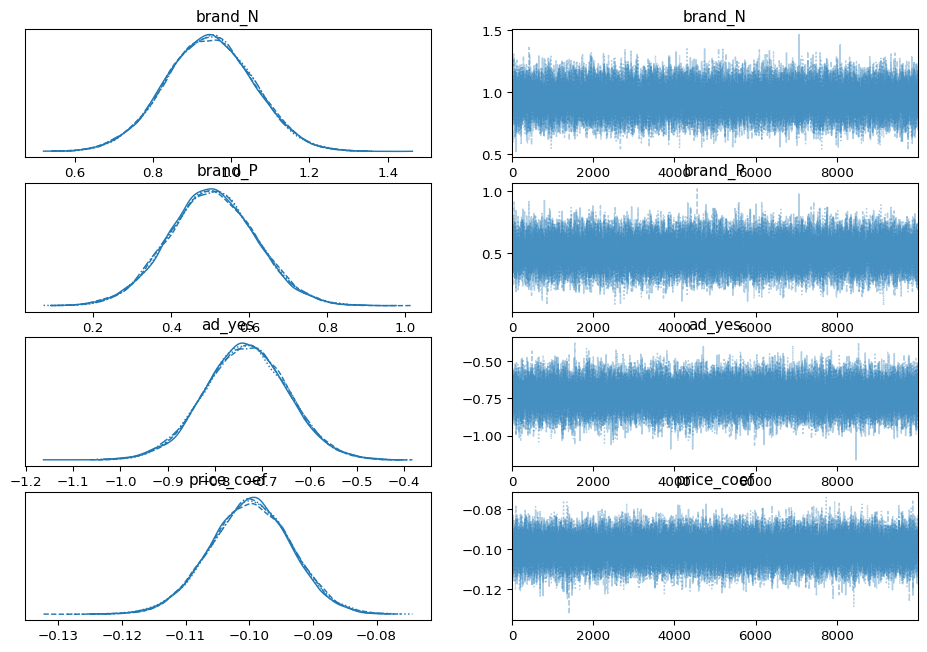
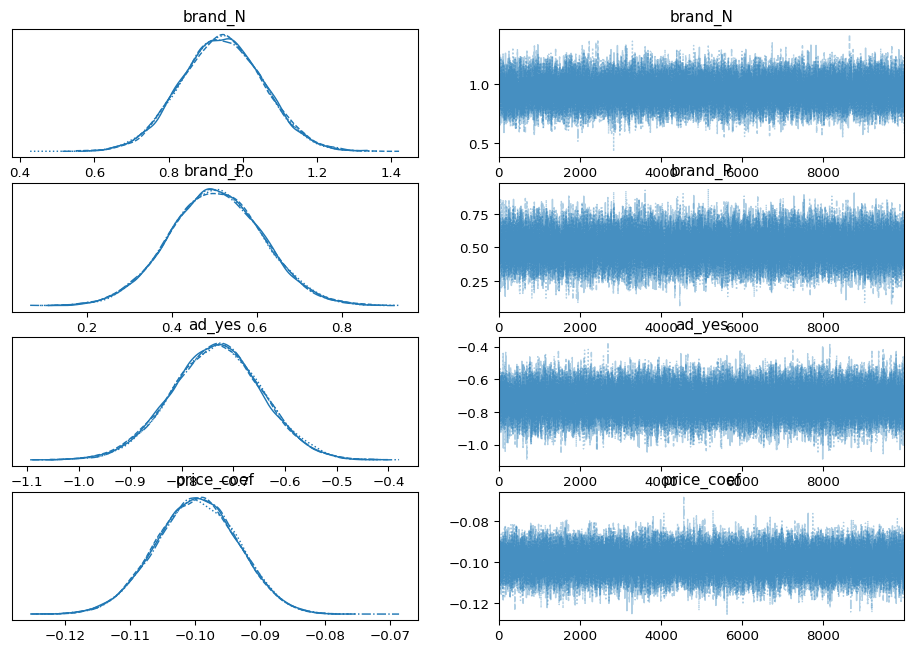
HW3

diff --git a/docs/blog/HW3/index.html b/docs/blog/HW3/index.html
@@ -192,7 +192,7 @@ window.Quarto = {
   <li><a href="#estimation-via-maximum-likelihood" id="toc-estimation-via-maximum-likelihood" class="nav-link" data-scroll-target="#estimation-via-maximum-likelihood">4. Estimation via Maximum Likelihood</a></li>
   <li><a href="#estimation-via-bayesian-methods" id="toc-estimation-via-bayesian-methods" class="nav-link" data-scroll-target="#estimation-via-bayesian-methods">5. Estimation via Bayesian Methods</a></li>
   <li><a href="#discussion" id="toc-discussion" class="nav-link" data-scroll-target="#discussion">6. Discussion</a></li>
-  <li><a href="#full-code" id="toc-full-code" class="nav-link" data-scroll-target="#full-code">Full Code</a></li>
+  <li><a href="#full-code" id="toc-full-code" class="nav-link" data-scroll-target="#full-code">7. Full Code</a></li>
   </ul>
 </nav>
     </div>
@@ -260,7 +260,7 @@ u_{ij} = (1 \times Netflix_j) + (0.5 \times Prime_j) + (-0.8*Ads_j) - 0.1\times 
 \]</span></p>
 <p>where the variables are binary indicators and <span class="math inline">\(\varepsilon\)</span> is Type 1 Extreme Value (ie, Gumble) distributed.</p>
 <p>The following code imports the previously–simulated conjoint data.</p>
-<div id="326143c2" class="cell" data-execution_count="1">
+<div id="73335380" class="cell" data-execution_count="1">
 <details class="code-fold">
 <summary>Show/Hide Code</summary>
 <div class="sourceCode cell-code" id="cb1"><pre class="sourceCode python code-with-copy"><code class="sourceCode python"><span id="cb1-1"><a href="#cb1-1" aria-hidden="true" tabindex="-1"></a><span class="im">import</span> pandas <span class="im">as</span> pd</span>
@@ -341,7 +341,7 @@ u_{ij} = (1 \times Netflix_j) + (0.5 \times Prime_j) + (-0.8*Ads_j) - 0.1\times 
 <section id="preparing-the-data-for-estimation" class="level2">
 <h2 class="anchored" data-anchor-id="preparing-the-data-for-estimation">3. Preparing the Data for Estimation</h2>
 <p>The “hard part” of the MNL likelihood function is organizing the data, as we need to keep track of 3 dimensions (consumer <span class="math inline">\(i\)</span>, covariate <span class="math inline">\(k\)</span>, and product <span class="math inline">\(j\)</span>) instead of the typical 2 dimensions for cross-sectional regression models (consumer <span class="math inline">\(i\)</span> and covariate <span class="math inline">\(k\)</span>). The fact that each task for each respondent has the same number of alternatives (3) helps. In addition, we need to convert the categorical variables for brand and ads into binary variables.</p>
-<div id="5ac3e5df" class="cell" data-execution_count="2">
+<div id="57777492" class="cell" data-execution_count="2">
 <details class="code-fold">
 <summary>Show/Hide Code</summary>
 <div class="sourceCode cell-code" id="cb2"><pre class="sourceCode python code-with-copy"><code class="sourceCode python"><span id="cb2-1"><a href="#cb2-1" aria-hidden="true" tabindex="-1"></a><span class="co"># Data preparation for MNL</span></span>
@@ -374,7 +374,7 @@ Number of unique choice tasks: 1000</code></pre>
 </section>
 <section id="estimation-via-maximum-likelihood" class="level2">
 <h2 class="anchored" data-anchor-id="estimation-via-maximum-likelihood">4. Estimation via Maximum Likelihood</h2>
-<div id="8ec84a3c" class="cell" data-execution_count="3">
+<div id="9cd07a77" class="cell" data-execution_count="3">
 <details class="code-fold">
 <summary>Show/Hide Code</summary>
 <div class="sourceCode cell-code" id="cb4"><pre class="sourceCode python code-with-copy"><code class="sourceCode python"><span id="cb4-1"><a href="#cb4-1" aria-hidden="true" tabindex="-1"></a><span class="co"># Maximum Likelihood Estimation</span></span>
@@ -467,7 +467,7 @@ Number of unique choice tasks: 1000</code></pre>
 </section>
 <section id="estimation-via-bayesian-methods" class="level2">
 <h2 class="anchored" data-anchor-id="estimation-via-bayesian-methods">5. Estimation via Bayesian Methods</h2>
-<div id="4a842b8d" class="cell" data-execution_count="4">
+<div id="0431a699" class="cell" data-execution_count="4">
 <details class="code-fold">
 <summary>Show/Hide Code</summary>
 <div class="sourceCode cell-code" id="cb5"><pre class="sourceCode python code-with-copy"><code class="sourceCode python"><span id="cb5-1"><a href="#cb5-1" aria-hidden="true" tabindex="-1"></a><span class="co"># Bayesian Estimation via MCMC</span></span>
@@ -531,37 +531,37 @@ Sampling 4 chains for 1_000 tune and 10_000 draw iterations (4_000 + 40_000 draw
 <tr class="odd">
 <td data-quarto-table-cell-role="th">brand_N</td>
 <td>0.944</td>
-<td>0.112</td>
-<td>0.735</td>
-<td>1.157</td>
+<td>0.111</td>
+<td>0.738</td>
+<td>1.154</td>
 <td>0.001</td>
 <td>0.001</td>
-<td>29861.0</td>
-<td>29176.0</td>
+<td>33283.0</td>
+<td>30265.0</td>
 <td>1.0</td>
 </tr>
 <tr class="even">
 <td data-quarto-table-cell-role="th">brand_P</td>
-<td>0.504</td>
-<td>0.112</td>
-<td>0.284</td>
-<td>0.705</td>
+<td>0.503</td>
+<td>0.110</td>
+<td>0.292</td>
+<td>0.707</td>
 <td>0.001</td>
 <td>0.001</td>
-<td>29405.0</td>
-<td>29196.0</td>
+<td>33570.0</td>
+<td>29456.0</td>
 <td>1.0</td>
 </tr>
 <tr class="odd">
 <td data-quarto-table-cell-role="th">ad_yes</td>
-<td>-0.735</td>
-<td>0.087</td>
-<td>-0.899</td>
-<td>-0.570</td>
+<td>-0.733</td>
+<td>0.088</td>
+<td>-0.900</td>
+<td>-0.569</td>
 <td>0.000</td>
 <td>0.000</td>
-<td>34570.0</td>
-<td>28862.0</td>
+<td>36591.0</td>
+<td>28974.0</td>
 <td>1.0</td>
 </tr>
 <tr class="even">
@@ -572,8 +572,8 @@ Sampling 4 chains for 1_000 tune and 10_000 draw iterations (4_000 + 40_000 draw
 <td>-0.088</td>
 <td>0.000</td>
 <td>0.000</td>
-<td>35949.0</td>
-<td>29984.0</td>
+<td>34311.0</td>
+<td>28654.0</td>
 <td>1.0</td>
 </tr>
 </tbody>
@@ -613,7 +613,7 @@ Sampling 4 chains for 1_000 tune and 10_000 draw iterations (4_000 + 40_000 draw
 </li>
 <li><strong>MLE vs.&nbsp;Bayesian.</strong> With large, balanced conjoint data the two approaches converge; Bayesian estimation adds credible intervals and an easy path to hierarchical models.<br>
 </li>
-<li><strong>Next steps.</strong>
+<li><strong>Potential next steps.</strong>
 <ul>
 <li>Fit a hierarchical (HB-MNL) model to capture heterogeneity in price and ad sensitivity.<br>
 </li>
@@ -624,8 +624,8 @@ Sampling 4 chains for 1_000 tune and 10_000 draw iterations (4_000 + 40_000 draw
 </ol>
 </section>
 <section id="full-code" class="level2">
-<h2 class="anchored" data-anchor-id="full-code">Full Code</h2>
-<div id="46dd7007" class="cell" data-execution_count="5">
+<h2 class="anchored" data-anchor-id="full-code">7. Full Code</h2>
+<div id="8b89f76d" class="cell" data-execution_count="5">
 <details class="code-fold">
 <summary>Show/Hide Code</summary>
 <div class="sourceCode cell-code" id="cb7"><pre class="sourceCode python code-with-copy"><code class="sourceCode python"><span id="cb7-1"><a href="#cb7-1" aria-hidden="true" tabindex="-1"></a><span class="co"># Imports </span></span>

diff --git a/docs/blog.html b/docs/blog.html
@@ -203,7 +203,7 @@ window.Quarto = {
 
 <div class="quarto-listing quarto-listing-container-grid" id="listing-listing">
 <div class="list grid quarto-listing-cols-3">
-<div class="g-col-1" data-index="0" data-listing-date-sort="1748415600000" data-listing-file-modified-sort="1748860009252" data-listing-date-modified-sort="NaN" data-listing-reading-time-sort="9" data-listing-word-count-sort="1733">
+<div class="g-col-1" data-index="0" data-listing-date-sort="1748415600000" data-listing-file-modified-sort="1748860481378" data-listing-date-modified-sort="NaN" data-listing-reading-time-sort="9" data-listing-word-count-sort="1735">
 <a href="./blog/HW3/index.html" class="quarto-grid-link">
 <div class="quarto-grid-item card h-100 card-left">
 <p class="card-img-top"><img src="blog/HW3/index_files/figure-html/cell-5-output-3.png" style="height: 150px;"  class="thumbnail-image card-img"/></p>
